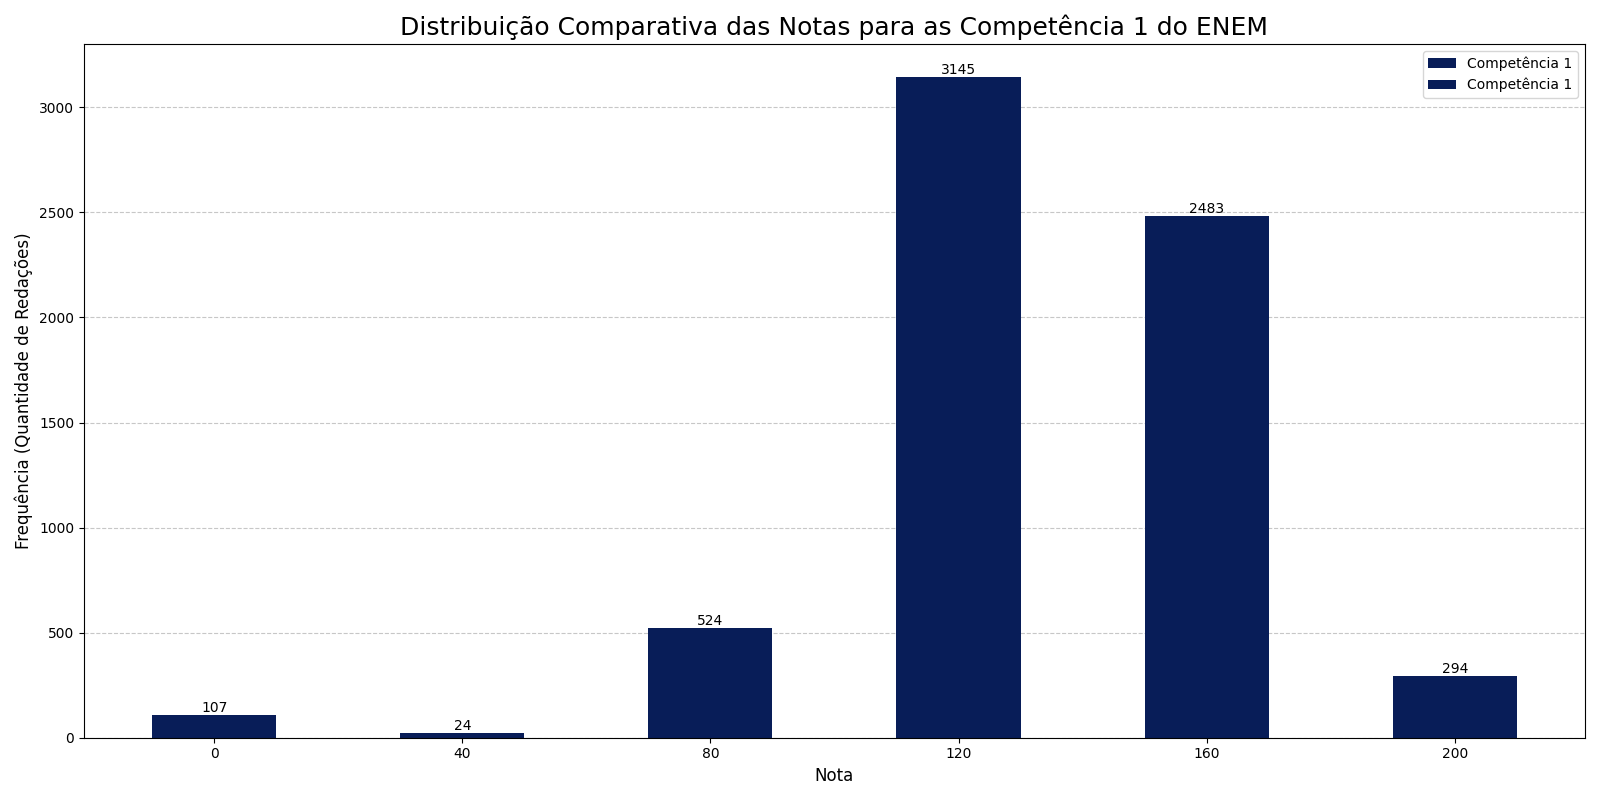
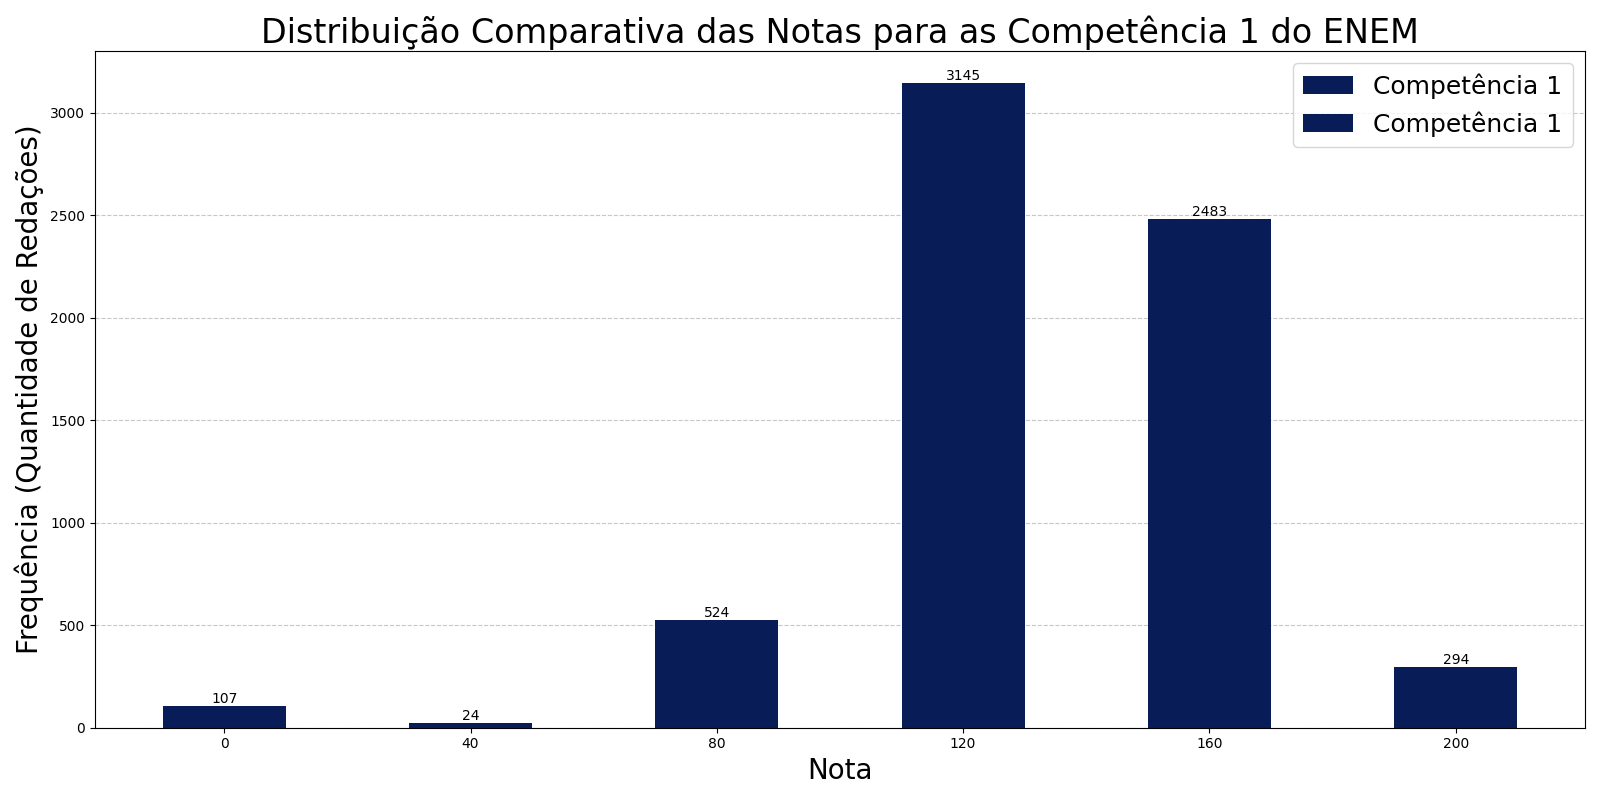
analise de features para entrega 17/9

diff --git a/ai-analysis/feature_extraction/teste.py b/ai-analysis/feature_extraction/teste.py
@@ -48,6 +48,7 @@ def extrair_features(texto: str) -> dict:
     return features
 
 import matplotlib.pyplot as plt
+from matplotlib.gridspec import GridSpec
 from redacao_dict.csv_to_dict import create_redacoes_dict
 from tqdm import tqdm
 
@@ -63,7 +64,7 @@ def run():
         'nota_final': []
     }
 
-    redacoes_qt = 100
+    redacoes_qt = 1000
     redacoes_dict = create_redacoes_dict(redacoes_qt)
 
     for redacao in tqdm(redacoes_dict, desc="Extraindo e coletando dados"):
@@ -75,23 +76,43 @@ def run():
         dados_features['nota_c1'].append(redacao.get('nota_c1', 0))
         dados_features['nota_final'].append(redacao.get('nota_final', 0))
 
-    fig, axs = plt.subplots(2, 4, figsize=(20, 10))
+    # Criamos uma figura vazia
+    fig = plt.figure(figsize=(20, 15))
+    fig.suptitle('Distribuição de Features e Notas das Redações', fontsize=22)
 
-    fig.suptitle('Distribuição de Features e Notas das Redações', fontsize=18)
-    
-    axs_flat = axs.flatten()
+    # Criamos uma grade "invisível" de 3 linhas e 6 colunas para nos dar flexibilidade
+    gs = GridSpec(3, 6, figure=fig)
+
+    # Agora, criamos cada eixo (ax) manualmente, posicionando-o na grade
+    # Linha 1: 2 gráficos centralizados
+    ax1 = fig.add_subplot(gs[0, 1:3]) # Ocupa colunas 1 e 2
+    ax2 = fig.add_subplot(gs[0, 3:5]) # Ocupa colunas 3 e 4
+
+    # Linha 2: 3 gráficos
+    ax3 = fig.add_subplot(gs[1, 0:2]) # Ocupa colunas 0 e 1
+    ax4 = fig.add_subplot(gs[1, 2:4]) # Ocupa colunas 2 e 3
+    ax5 = fig.add_subplot(gs[1, 4:6]) # Ocupa colunas 4 e 5
+
+    # Linha 3: 2 gráficos centralizados
+    ax6 = fig.add_subplot(gs[2, 1:3]) # Ocupa colunas 1 e 2
+    ax7 = fig.add_subplot(gs[2, 3:5]) # Ocupa colunas 3 e 4
+
+    # Criamos uma lista com todos os eixos para facilitar o loop de plotagem
+    axs = [ax1, ax2, ax3, ax4, ax5, ax6, ax7]
     chaves = list(dados_features.keys())
 
+    # O seu loop de plotagem continua quase igual, mas agora usa a lista 'axs'
     for i, chave in enumerate(chaves):
-        ax = axs_flat[i]
+        ax = axs[i]
         
         n, bins, patches = ax.hist(dados_features[chave], bins=20, edgecolor='black', alpha=0.7)
         
-        ax.set_title(chave.replace('_', ' ').title())
+        ax.set_title(chave.replace('_', ' ').title(), fontsize=14)
         ax.set_xlabel('Valor')
         ax.set_ylabel('Frequência')
-        ax.grid(axis='y', alpha=0.75)
+        ax.grid(axis='y', alpha=0.75, linestyle='--')
 
+        # O código para adicionar os rótulos no topo das barras continua o mesmo
         for count, rect in zip(n, patches):
             if count > 0:
                 height = rect.get_height()
@@ -104,11 +125,11 @@ def run():
                     fontsize=8
                 )
     
-    axs_flat[-1].axis('off')
+    # Não precisamos mais do axs_flat[-1].axis('off') porque criamos o número exato de eixos.
 
     plt.tight_layout(rect=[0, 0.03, 1, 0.95])
     
-    plt.savefig(f"graficos_{redacoes_qt}.png")
+    plt.savefig(f"graficos_{redacoes_qt}.png", dpi=600)
 
     print("\n" + "-"*40)
     print("[ Valores Médios das Features e Notas ]")

diff --git a/distribuicao_competencias/full/dataset_analyze.py b/distribuicao_competencias/full/dataset_analyze.py
@@ -32,18 +32,18 @@ competencias = ['Competência 1', 'Competência 2', 'Competência 3', 'Competên
 for i, competencia in enumerate(competencias):
   ax.bar(x + offsets[i], data_to_plot[competencia], width, label=competencia, color=colors(i))
 
-ax.set_title('Distribuição Comparativa das Notas para as 5 Competências do ENEM', fontsize=18)
-ax.set_ylabel('Frequência (Quantidade de Redações)', fontsize=12)
-ax.set_xlabel('Nota', fontsize=12)
+ax.set_title('Distribuição Comparativa das Notas para as 5 Competências do ENEM', fontsize=24)
+ax.set_ylabel('Frequência (Quantidade de Redações)', fontsize=20)
+ax.set_xlabel('Nota', fontsize=20)
 
 ax.set_xticks(x)
 ax.set_xticklabels(scores)
 
-ax.legend(fontsize=10)
+ax.legend(fontsize=18)
 
 ax.yaxis.grid(True, linestyle='--', alpha=0.7)
 ax.set_axisbelow(True)
 
 fig.tight_layout()
-plt.savefig('distribuicao_competencias.png')
+plt.savefig('distribuicao_competencias.png', dpi=600)
 # plt.show()

diff --git a/distribuicao_competencias/comp_1/dataset_analyze_1.py b/distribuicao_competencias/comp_1/dataset_analyze_1.py
@@ -33,14 +33,14 @@ for i, competencia in enumerate(competencias):
 for i, competencia in enumerate(competencias):
   ax.bar(x + offsets[i], data_to_plot[competencia], width, label=competencia, color=colors(i))
 
-ax.set_title('Distribuição Comparativa das Notas para as Competência 1 do ENEM', fontsize=18)
-ax.set_ylabel('Frequência (Quantidade de Redações)', fontsize=12)
-ax.set_xlabel('Nota', fontsize=12)
+ax.set_title('Distribuição Comparativa das Notas para as Competência 1 do ENEM', fontsize=24)
+ax.set_ylabel('Frequência (Quantidade de Redações)', fontsize=20)
+ax.set_xlabel('Nota', fontsize=20)
 
 ax.set_xticks(x)
 ax.set_xticklabels(scores)
 
-ax.legend(fontsize=10)
+ax.legend(fontsize=18)
 
 ax.yaxis.grid(True, linestyle='--', alpha=0.7)
 ax.set_axisbelow(True)
